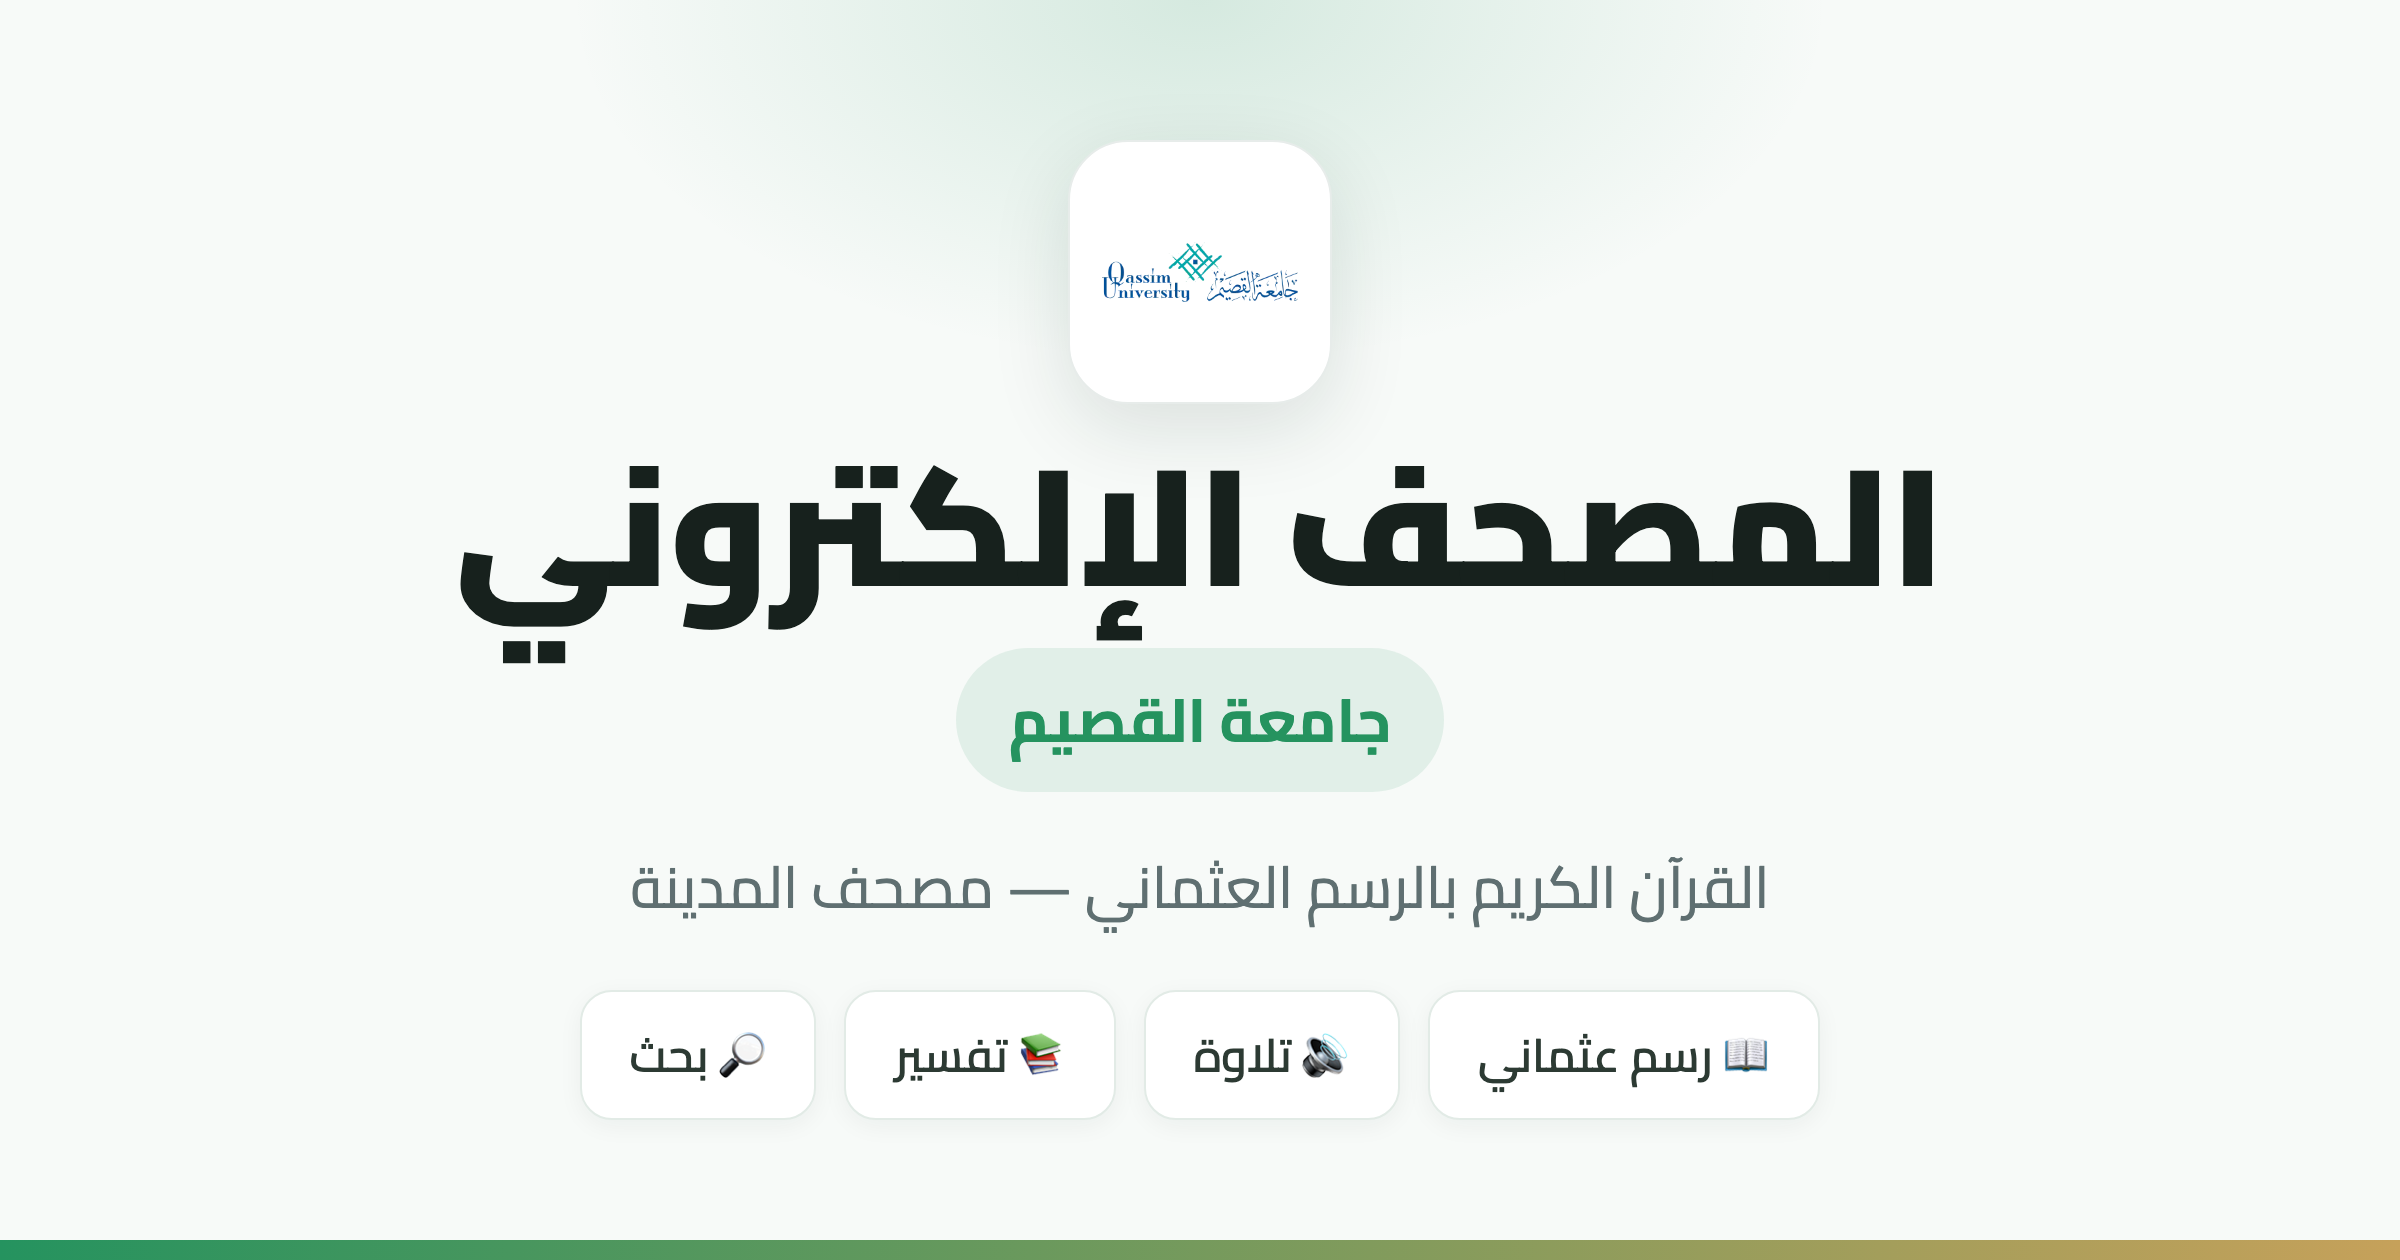
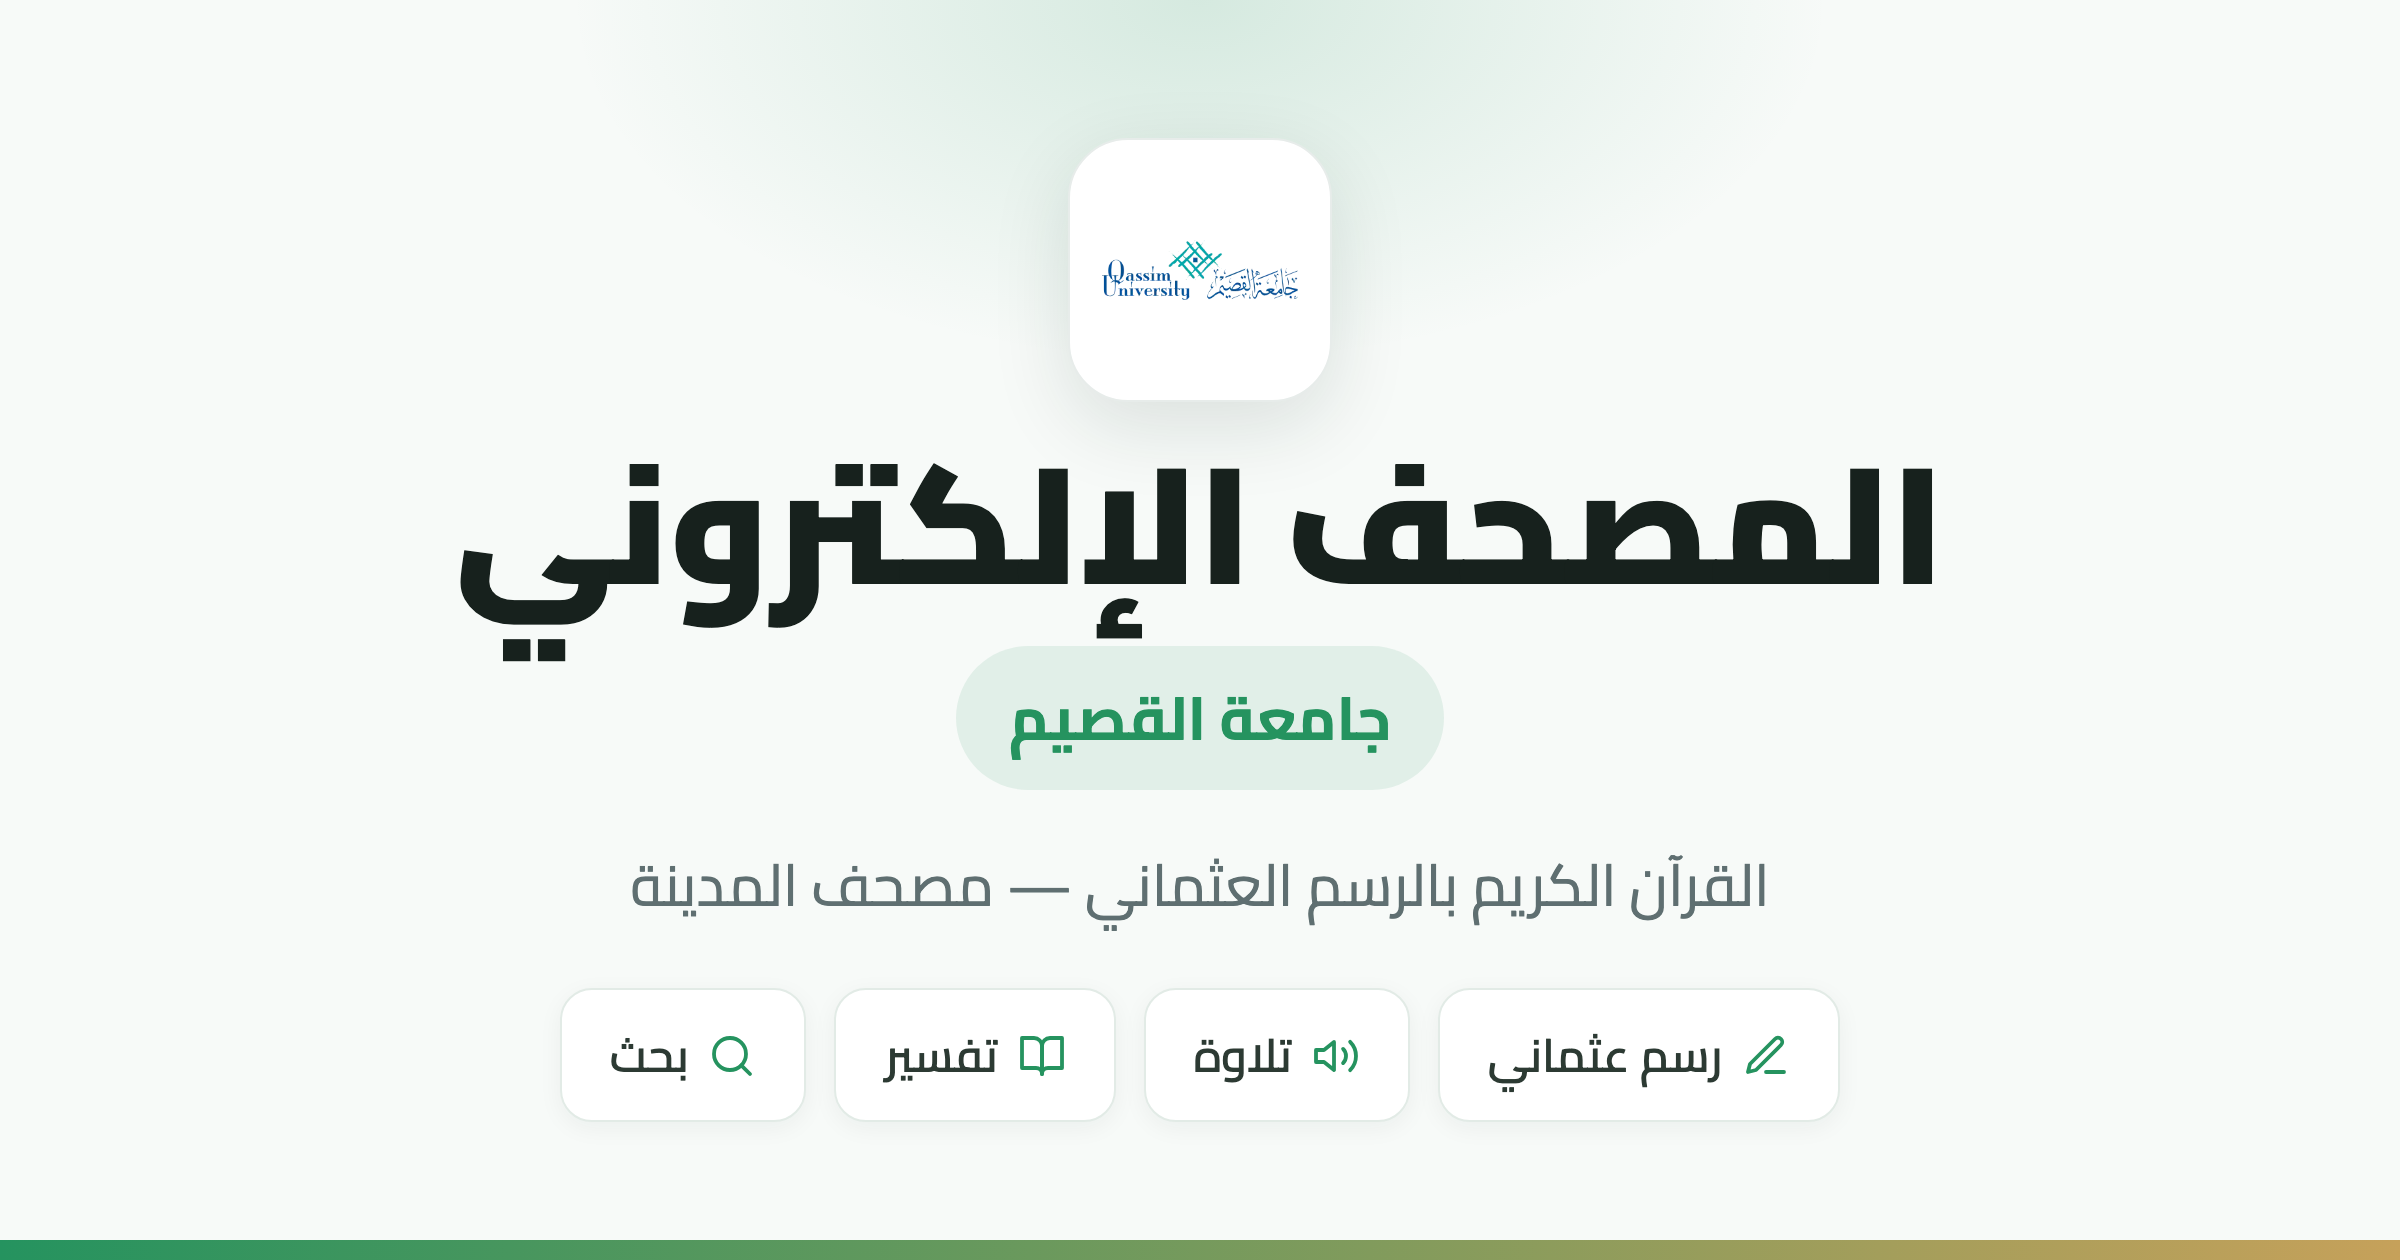
استبدال إيموجي صورة المعاينة (OG) بأيقونات SVG

diff --git a/resources/views/app.blade.php b/resources/views/app.blade.php
@@ -42,14 +42,14 @@
         <meta property="og:locale" content="ar_SA">
         <meta property="og:title" content="المصحف الإلكتروني — جامعة القصيم">
         <meta property="og:description" content="القرآن الكريم بالرسم العثماني (مصحف المدينة) مع التلاوة الصوتية، التفاسير والترجمة، البحث، ووضع الحفظ — مشروع جامعة القصيم.">
-        <meta property="og:image" content="{{ url('/og-image.png').'?v=2' }}">
+        <meta property="og:image" content="{{ url('/og-image.png').'?v=3' }}">
         <meta property="og:image:width" content="1200">
         <meta property="og:image:height" content="630">
         <meta property="og:url" content="{{ url()->current() }}">
         <meta name="twitter:card" content="summary_large_image">
         <meta name="twitter:title" content="المصحف الإلكتروني — جامعة القصيم">
         <meta name="twitter:description" content="القرآن الكريم بالرسم العثماني مع التلاوة والتفسير والبحث — جامعة القصيم.">
-        <meta name="twitter:image" content="{{ url('/og-image.png').'?v=2' }}">
+        <meta name="twitter:image" content="{{ url('/og-image.png').'?v=3' }}">
 
         @fonts
 